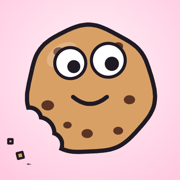
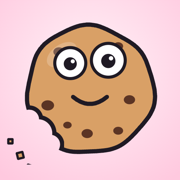
Oči koukají na tebe, občas mrknou stranou nebo zašilhají; Zasněné oči jen za sušenky

Changed region(s): [[0.3333, 0.3056, 0.4722, 0.4167], [0.5556, 0.2778, 0.6667, 0.4167]]

diff --git a/styles.css b/styles.css
@@ -384,6 +384,8 @@ button { font: inherit; color: inherit; border: 0; background: none; cursor: poi
 
 /* ---------- Pohyb postavičky (jen .hybe = větší postavičky) ---------- */
 .postavicka.hybe .pv-oci { transform-origin: 60px 47px; animation: pvMrk 7s var(--d, 0s) infinite; }
+.postavicka.hybe .pv-zl { animation: pvZorL 11s var(--d, 0s) ease-in-out infinite; }
+.postavicka.hybe .pv-zr { animation: pvZorR 11s var(--d, 0s) ease-in-out infinite; }
 .postavicka.hybe .pv-kyv { transform-origin: 60px 112px; animation: pvHlava 6.5s var(--d, 0s) ease-in-out infinite; }
 .postavicka.hybe .pv-vlasy { transform-origin: 60px 20px; animation: pvVlasy 3.2s var(--d, 0s) ease-in-out infinite; }
 .postavicka.hybe .pv-pusa { transform-origin: 60px 74px; animation: pvPusa 9s var(--d, 0s) ease-in-out infinite; }
@@ -393,6 +395,9 @@ button { font: inherit; color: inherit; border: 0; background: none; cursor: poi
 @keyframes pvHlava { 0%, 100% { transform: rotate(0deg); } 25% { transform: rotate(-3deg); } 60% { transform: rotate(2.5deg); } }
 @keyframes pvVlasy { 0%, 100% { transform: rotate(0deg); } 50% { transform: rotate(2.5deg); } }
 @keyframes pvPusa { 0%, 60%, 76%, 100% { transform: scale(1); } 64%, 72% { transform: scale(1.18, 1.25); } }
+/* Zornice: většinu času koukají na tebe, občas mrknou stranou a jednou zašilhají k nosu. */
+@keyframes pvZorL { 0%, 22%, 34%, 52%, 62%, 78%, 88%, 100% { transform: translate(0, 0); } 25%, 31% { transform: translate(-3.5px, 0); } 55%, 59% { transform: translate(3.5px, 1px); } 81%, 85% { transform: translate(3px, -1px); } }
+@keyframes pvZorR { 0%, 22%, 34%, 52%, 62%, 78%, 88%, 100% { transform: translate(0, 0); } 25%, 31% { transform: translate(-3.5px, 0); } 55%, 59% { transform: translate(-3.5px, 1px); } 81%, 85% { transform: translate(3px, -1px); } }
 @keyframes pvMava { 0%, 55%, 100% { transform: rotate(0deg); } 62%, 76% { transform: rotate(16deg); } 69%, 83% { transform: rotate(-10deg); } }
 @keyframes pvMazl { 0%, 55%, 75%, 100% { transform: translateY(0); } 62% { transform: translateY(-6px); } 68% { transform: translateY(0); } 71% { transform: translateY(-2px); } }
 @media (prefers-reduced-motion: reduce) { .postavicka.hybe * { animation: none !important; } }

diff --git a/js/blob.js b/js/blob.js
@@ -52,13 +52,14 @@ const OBLECENI = {
 };
 
 // ---------- oči ----------
-const oko = (x, y, r, px, py, extra = '') => `<circle cx="${x}" cy="${y}" r="${r}" fill="#fff" ${T2}/><circle cx="${x + px}" cy="${y + py}" r="${r * .42}" fill="${OB}"/>${extra}`;
+// Zornice s odleskem; trida pv-zl / pv-zr = levá / pravá zornice, CSS s nimi občas mrkne stranou nebo zašilhá.
+const oko = (x, y, r, px, py, trida = '') => `<circle cx="${x}" cy="${y}" r="${r}" fill="#fff" ${T2}/><g class="${trida}"><circle cx="${x + px}" cy="${y + py}" r="${r * .42}" fill="${OB}"/><circle cx="${x + px + r * .16}" cy="${y + py - r * .16}" r="${r * .13}" fill="#fff"/></g>`;
 const OCI = {
-  koukaci: oko(46, 48, 11, 2.5, 2.5) + oko(73, 46, 12, 2.5, 2.5),
+  koukaci: oko(46, 48, 11, 0, .5, 'pv-zl') + oko(73, 46, 12, 0, .5, 'pv-zr'),
   nahoru: oko(46, 46, 11, 1, -5) + oko(73, 44, 12, 1, -5.5),
   silene: oko(44, 48, 9, -2, 3) + oko(72, 44, 14, 4, -3),
   ospale: `<circle cx="46" cy="48" r="11" fill="#fff" ${T2}/><circle cx="73" cy="46" r="12" fill="#fff" ${T2}/><path d="M35 46 a11 11 0 0 1 22 0z M61 44 a12 12 0 0 1 24 0z" fill="currentColor" ${T2}/><circle cx="47" cy="51" r="3.5" fill="${OB}"/><circle cx="74" cy="50" r="3.8" fill="${OB}"/>`,
-  kyklop: oko(60, 46, 15, 3, 3),
+  kyklop: oko(60, 46, 15, 0, .5, 'pv-zl'),
   hvezdy: [[46, 48, 11], [73, 46, 12]].map(([x, y, r]) => `<circle cx="${x}" cy="${y}" r="${r}" fill="#fff" ${T2}/><path d="M${x} ${y - 6} l1.8 4 l4.2 .4 l-3.2 2.8 l1 4.2 l-3.8 -2.2 l-3.8 2.2 l1 -4.2 l-3.2 -2.8 l4.2 -.4z" fill="#ffc21a" stroke="${OB}" stroke-width="1"/>`).join(''),
   spiralky: [[46, 48, 11], [73, 46, 12]].map(([x, y, r]) => `<circle cx="${x}" cy="${y}" r="${r}" fill="#fff" ${T2}/><path d="M${x} ${y} m0 -1.5 a1.5 1.5 0 1 1 -1.5 1.5 a3.5 3.5 0 1 1 3.5 3.5 a5.5 5.5 0 1 1 5.5 -5.5 a7.5 7.5 0 0 1 -7.5 7.5" fill="none" stroke="${OB}" stroke-width="1.8" stroke-linecap="round"/>`).join(''),
   zamilovane: [[46, 48, 11], [73, 46, 12]].map(([x, y, r]) => `<circle cx="${x}" cy="${y}" r="${r}" fill="#fff" ${T2}/><path d="M${x} ${y + 5} l-5 -5 c-3 -3 1 -7 5 -3 c4 -4 8 0 5 3z" fill="#ff3b6b"/>`).join(''),

diff --git a/sw.js b/sw.js
@@ -1,7 +1,7 @@
 // Offline režim. Strategie „nejdřív síť“: s internetem se vždy načte aktuální verze všech souborů
 // najednou (jinak by se po aktualizaci smíchaly nové a staré moduly), mezipaměť je jen záloha.
 // Po změně souborů zvyš CACHE.
-const CACHE = 'biscuit-v38';
+const CACHE = 'biscuit-v39';
 const SHELL = ['./', 'index.html', 'styles.css', 'manifest.webmanifest',
   'js/app.js', 'js/data.js', 'js/store.js', 'js/speech.js', 'js/cas.js', 'js/lekce.js', 'js/hra.js',
   'js/odznaky.js', 'js/postavicka.js', 'js/blob.js', 'js/ikony.js', 'js/svety.js', 'js/hra-susenky.js', 'js/obrazky.js', 'js/papir.js', 'js/online.js', 'js/firebase-config.js', 'js/maskot.js', 'js/hlasky.js', 'js/ui.js', 'icons/icon-180.png', 'icons/icon-192.png'];

diff --git a/js/postavicka.js b/js/postavicka.js
@@ -60,7 +60,7 @@ export const VECI = [
   v('barva', 'b-bila', 'Bílá', 150, { c: '#f4f1f7' }), v('barva', 'b-duha', 'Duhová', 800, { c: 'duha' }),
 
   // Oči
-  v('oci', 'o-koukaci', 'Koukací', 0, { b: 'koukaci' }), v('oci', 'o-nahoru', 'Zasněné', 0, { b: 'nahoru' }),
+  v('oci', 'o-koukaci', 'Koukací', 0, { b: 'koukaci' }), v('oci', 'o-nahoru', 'Zasněné', 25, { b: 'nahoru' }),
   v('oci', 'o-silene', 'Šilhavé', 30, { b: 'silene' }), v('oci', 'o-ospale', 'Ospalé', 30, { b: 'ospale' }),
   v('oci', 'o-zamilovane', 'Zamilované', 80, { b: 'zamilovane' }), v('oci', 'o-hvezdy', 'Hvězdičky', 150, { b: 'hvezdy' }),
   v('oci', 'o-kyklop', 'Kyklop', 300, { b: 'kyklop' }), v('oci', 'o-spiralky', 'Hypnóza', 500, { b: 'spiralky' }),

diff --git a/js/app.js b/js/app.js
@@ -47,6 +47,8 @@ function route() {
   if (x0 && x0.vzhled.verze !== 2) prevedNaSusenku(x0);
   // Holka/kluk se kreslí z vzhled.rod (řasy, tvářičky) – vzhled odchází i kamarádkám online.
   if (x0 && x0.rod && x0.vzhled.rod !== x0.rod) { x0.vzhled.rod = x0.rod; S.uloz(); }
+  // Zasněné oči (koukají nahoru) byly první den zdarma a losovaly se – kdo si je nekoupil, kouká zase na tebe.
+  if (x0 && x0.vzhled.oci === 'o-nahoru' && !x0.koupeno.includes('o-nahoru')) { x0.vzhled.oci = 'o-koukaci'; S.uloz(); }
   nastavSvet(x0);
   nastavNoc();
   if (x0 && !x0.rod) return otazkaRod(x0);
